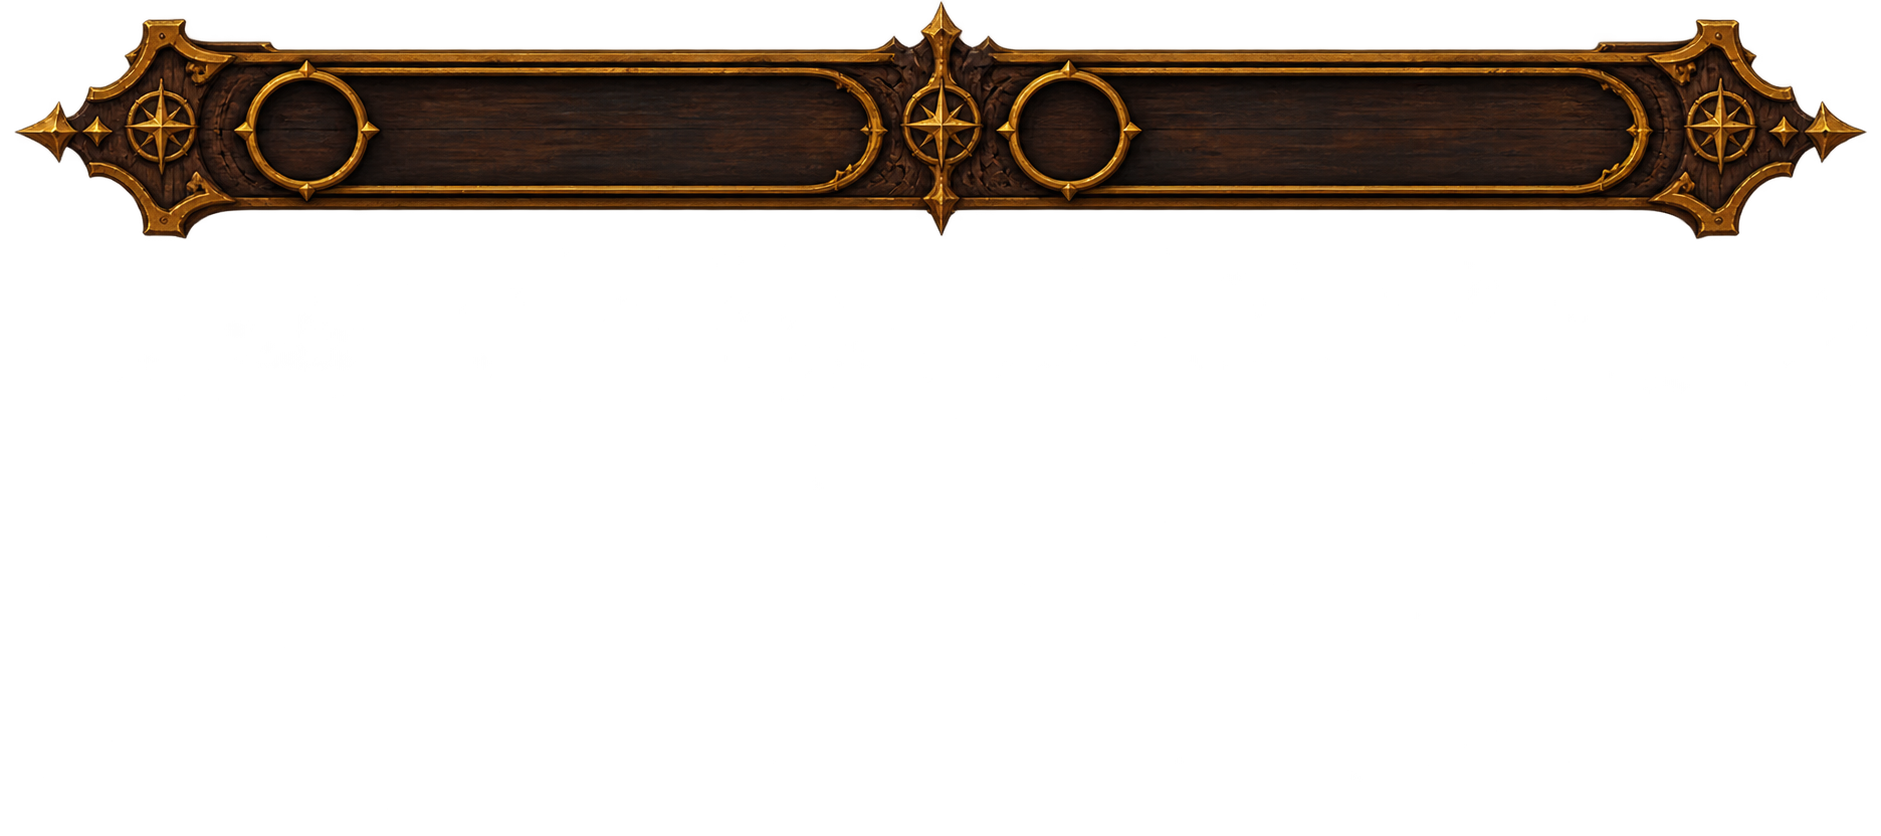
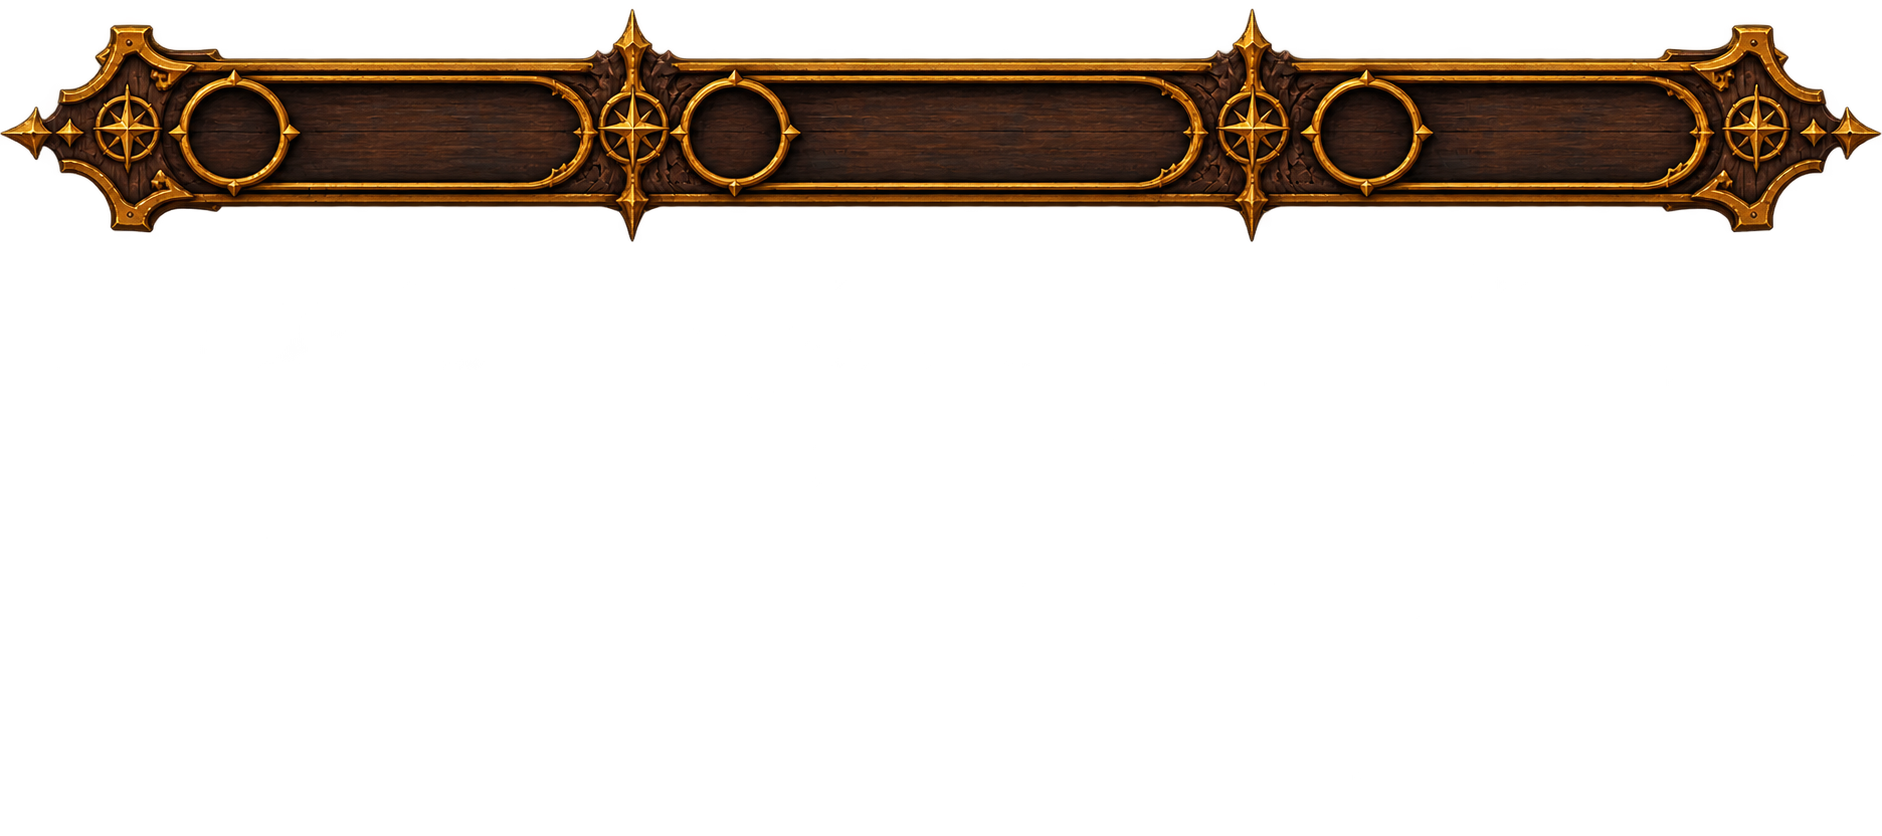
changement de la barre UID besoin de régler l'affichage

Changed region(s): [[0.0, 0.0, 1.0, 0.2799]]

diff --git a/GuildManager/src/GuildManager.clients/View/Controls/RessourceBar.xaml b/GuildManager/src/GuildManager.clients/View/Controls/RessourceBar.xaml
@@ -2,21 +2,24 @@
              xmlns="http://schemas.microsoft.com/winfx/2006/xaml/presentation"
              xmlns:x="http://schemas.microsoft.com/winfx/2006/xaml"
              x:Name="Root">
-    <Grid Width="700" Height="95">
-        <Image Source="/Assets/UI/barre_UID.png" Stretch="Fill"/>
+    <Viewbox Stretch="Uniform">
+        <Canvas Width="1882" Height="836">
+            <Image Source="/Assets/UI/Barre_UID.png" Width="1882" Height="836"/>
 
-        <!-- Icône Or, dans le cercle de gauche -->
-        <Image Source="/Assets/UI/gold_icon.png" Width="55" Height="55"
-               HorizontalAlignment="Left" VerticalAlignment="Center" Margin="115,0,0,0"/>
-        <TextBlock Text="{Binding Gold, ElementName=Root}" FontSize="22" FontWeight="Bold"
-                   Foreground="#F2D98A" HorizontalAlignment="Left" VerticalAlignment="Center"
-                   Margin="185,0,0,0"/>
+            <!-- Or -->
+            <Image Source="/Assets/UI/gold_icon.png" Width="110" Height="110" Canvas.Left="250" Canvas.Top="60"/>
+            <TextBlock Text="{Binding Gold, ElementName=Root}" FontSize="46" FontWeight="Bold"
+                       Foreground="#F2D98A" Canvas.Left="400" Canvas.Top="90"/>
 
-        <!-- Icône Nourriture, dans le cercle du milieu-droit -->
-        <Image Source="/Assets/UI/icon_food.png" Width="55" Height="55"
-               HorizontalAlignment="Left" VerticalAlignment="Center" Margin="390,0,0,0"/>
-        <TextBlock Text="{Binding Food, ElementName=Root}" FontSize="22" FontWeight="Bold"
-                   Foreground="#F2D98A" HorizontalAlignment="Left" VerticalAlignment="Center"
-                   Margin="460,0,0,0"/>
-    </Grid>
+            <!-- Nourriture -->
+            <Image Source="/Assets/UI/icon_food.png" Width="110" Height="110" Canvas.Left="890" Canvas.Top="60"/>
+            <TextBlock Text="{Binding Food, ElementName=Root}" FontSize="46" FontWeight="Bold"
+                       Foreground="#F2D98A" Canvas.Left="1040" Canvas.Top="90"/>
+
+            <!-- Prestige -->
+            <Image Source="/Assets/UI/prestige_icon.png" Width="110" Height="110" Canvas.Left="1530" Canvas.Top="60"/>
+            <TextBlock Text="{Binding Prestige, ElementName=Root}" FontSize="46" FontWeight="Bold"
+                       Foreground="#F2D98A" Canvas.Left="1680" Canvas.Top="90"/>
+        </Canvas>
+    </Viewbox>
 </UserControl>

diff --git a/GuildManager/src/GuildManager.clients/View/GameView/GuildView.xaml b/GuildManager/src/GuildManager.clients/View/GameView/GuildView.xaml
@@ -6,9 +6,8 @@
         <Canvas Width="1867" Height="819">
             <Image Source="/Assets/Backgrounds/guilde_background.png" Width="1867" Height="819"/>
             <!--resource bar  -->
-            <controls:ResourceBar Gold="{Binding Gold}" Food="{Binding Food}"
-                       HorizontalAlignment="Center" VerticalAlignment="Top"
-                       Margin="0,20,0,0"/>
+            <controls:ResourceBar Gold="{Binding Gold}" Food="{Binding Food}" Prestige="{Binding Prestige}"
+                       Canvas.Left="20" Canvas.Top="10" Width="950" Height="422"/>
             <!-- Store : l'échoppe à gauche -->
             <controls:HoverHotspot Canvas.Left="10" Canvas.Top="180"
                                     Width="520" Height="460"

diff --git a/GuildManager/src/GuildManager.clients/View/Controls/RessourceBar.xaml.cs b/GuildManager/src/GuildManager.clients/View/Controls/RessourceBar.xaml.cs
@@ -7,21 +7,14 @@ public partial class ResourceBar : UserControl
 {
     public static readonly DependencyProperty GoldProperty =
         DependencyProperty.Register(nameof(Gold), typeof(int), typeof(ResourceBar));
-
     public static readonly DependencyProperty FoodProperty =
         DependencyProperty.Register(nameof(Food), typeof(int), typeof(ResourceBar));
+    public static readonly DependencyProperty PrestigeProperty =
+        DependencyProperty.Register(nameof(Prestige), typeof(int), typeof(ResourceBar));
 
-    public int Gold
-    {
-        get => (int)GetValue(GoldProperty);
-        set => SetValue(GoldProperty, value);
-    }
-
-    public int Food
-    {
-        get => (int)GetValue(FoodProperty);
-        set => SetValue(FoodProperty, value);
-    }
+    public int Gold { get => (int)GetValue(GoldProperty); set => SetValue(GoldProperty, value); }
+    public int Food { get => (int)GetValue(FoodProperty); set => SetValue(FoodProperty, value); }
+    public int Prestige { get => (int)GetValue(PrestigeProperty); set => SetValue(PrestigeProperty, value); }
 
     public ResourceBar()
     {
